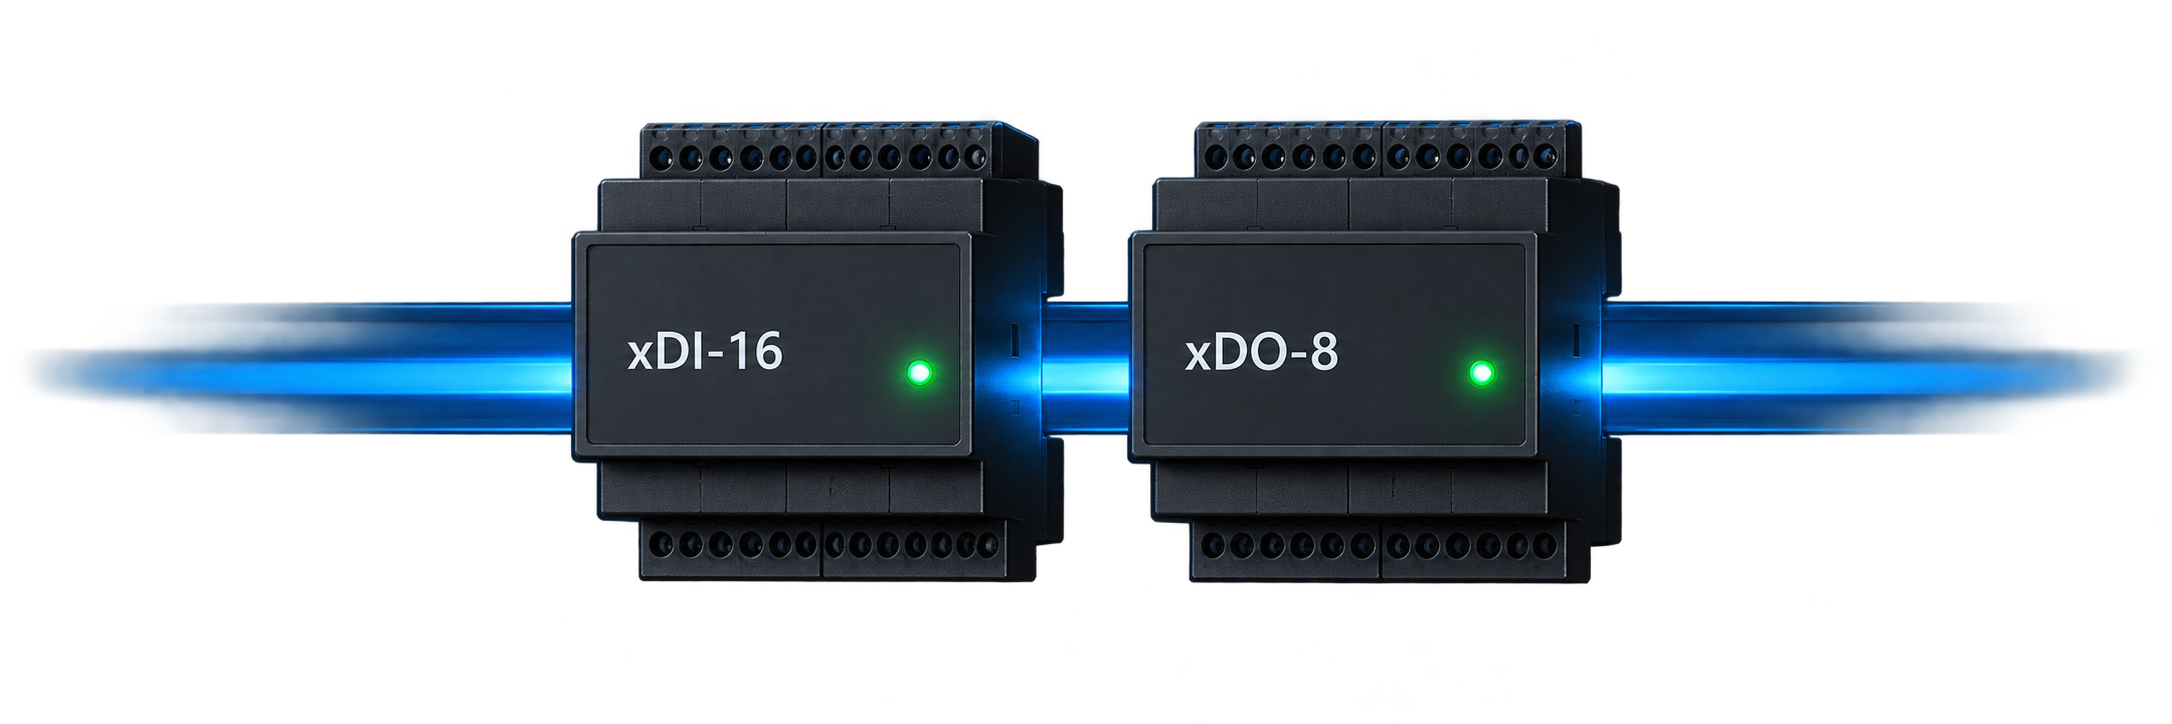
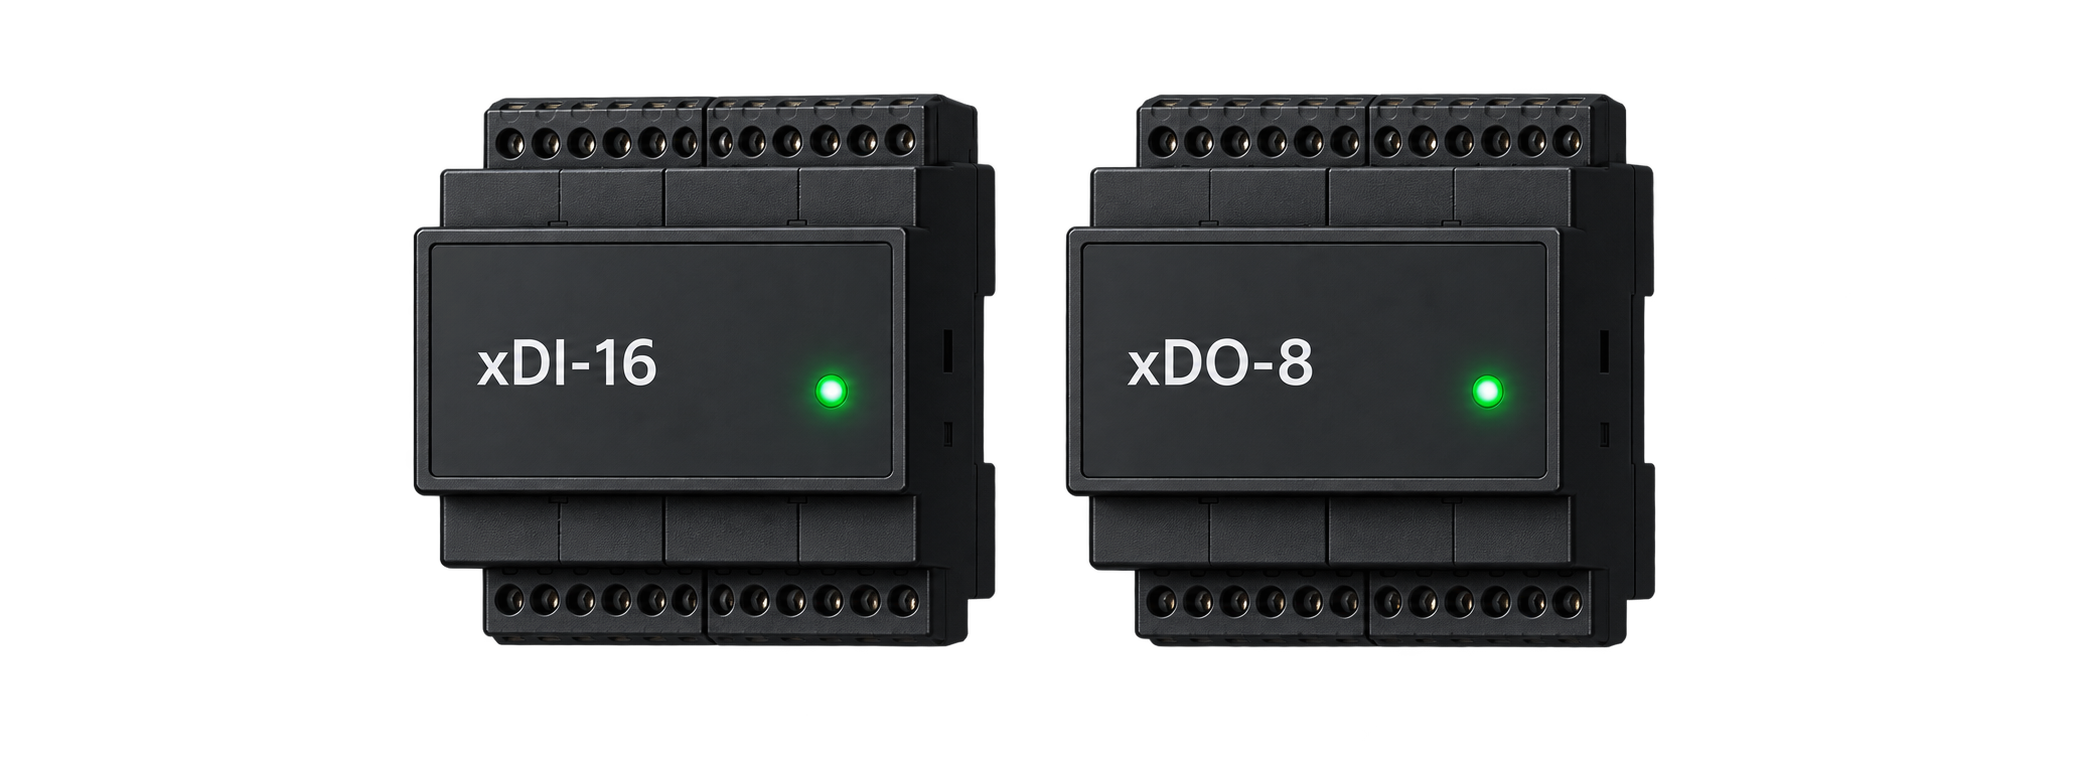
0.5.238: fix X-BUS power refresh shutdown lifecycle

Changed region(s): [[0.0, 0.1215, 0.9856, 0.8812]]

diff --git a/intellegyhub/app/main.py b/intellegyhub/app/main.py
@@ -256,7 +256,7 @@ def create_app(options_path: Path | None = None, runtime: AppRuntime | None = No
         if app.state.runtime is None:
             config = load_config(app.state.options_path)
             LOGGER.info(
-        "Starting v0.5.237 chip=%s led=%s active_low=%s fn1_gpio=27 fn2_gpio=%s active_low=%s bias=%s debounce_ms=%s startup_buzzer=%s shutdown_buzzer=%s buzzer_frequency=%s buzzer_duration_ms=%s shutdown_buzzer_volume_percent=80 carrier_monitoring_poll_interval_seconds=%s ste_heartbeat_on_seconds=%s ste_heartbeat_off_seconds=%s websocket_connection_grace_seconds=%s onewire_bus1_poll_interval_seconds=%s onewire_bus2_poll_interval_seconds=%s power_button_shutdown_enabled=%s power_button_shutdown_hold_seconds=%s mock=%s port=8098",
+        "Starting v0.5.238 chip=%s led=%s active_low=%s fn1_gpio=27 fn2_gpio=%s active_low=%s bias=%s debounce_ms=%s startup_buzzer=%s shutdown_buzzer=%s buzzer_frequency=%s buzzer_duration_ms=%s shutdown_buzzer_volume_percent=80 carrier_monitoring_poll_interval_seconds=%s ste_heartbeat_on_seconds=%s ste_heartbeat_off_seconds=%s websocket_connection_grace_seconds=%s onewire_bus1_poll_interval_seconds=%s onewire_bus2_poll_interval_seconds=%s power_button_shutdown_enabled=%s power_button_shutdown_hold_seconds=%s mock=%s port=8098",
                 config.chip_path,
                 config.led_gpio,
                 config.led_active_low,
@@ -314,7 +314,7 @@ def create_app(options_path: Path | None = None, runtime: AppRuntime | None = No
                 await app.state.rs485.stop()
             await app.state.runtime.stop()
 
-    app = FastAPI(title="IntellegyHUB", version="0.5.237", lifespan=lifespan)
+    app = FastAPI(title="IntellegyHUB", version="0.5.238", lifespan=lifespan)
     app.state.runtime = runtime
     app.state.options_path = options_path
     app.state.rtc = MockRtc() if is_mock_enabled() else HostRtc()
@@ -802,7 +802,7 @@ def create_app(options_path: Path | None = None, runtime: AppRuntime | None = No
     .xbus-status-line .notice { display: inline-flex; align-items: center; gap: 10px; padding-left: 18px; border-left: 1px solid var(--ha-card-border); }
     .xbus-status-line .notice svg { width: 22px; height: 22px; flex: 0 0 22px; fill: currentColor; }
     .xbus-visual { position: absolute !important; z-index: 0 !important; top: -38px; right: 150px; width: min(58%, 820px); height: 270px; display: flex; align-items: center; justify-content: center; pointer-events: none; transform: translateX(100px); }
-    .xbus-visual img { display: block; width: 100%; height: 100%; object-fit: contain; object-position: center; opacity: .96; }
+    .xbus-visual img { display: block; width: 85%; height: 85%; object-fit: contain; object-position: center; opacity: .96; }
     .xbus-toolbar { display: grid; grid-template-columns: minmax(330px, 1.4fr) minmax(320px, 1fr) minmax(390px, 2.3fr); gap: 24px; align-items: center; margin-top: 12px; border: 1px solid var(--ha-card-border); border-radius: 8px; padding: 12px 16px; background: var(--ha-surface); }
     .xbus-toolbar > * { min-width: 0; }
     .xbus-toolbar .bus-power-control, .xbus-toolbar .bus-note, .xbus-scan-panel { height: 64px; min-height: 64px; box-sizing: border-box; border: 0; border-radius: 0; background: transparent; }

diff --git a/intellegyhub/app/extensions.py b/intellegyhub/app/extensions.py
@@ -676,9 +676,7 @@ class ExtensionManager:
 
     async def stop(self) -> None:
         self._stopped.set()
-        if self._power_refresh_task is not None:
-            await self._power_refresh_task
-            self._power_refresh_task = None
+        await self._cancel_power_refresh()
         await self.hardware.stop_xdi16_interrupt()
         if self._xdi16_task:
             self._xdi16_task.cancel()
@@ -695,8 +693,24 @@ class ExtensionManager:
 
     async def wait_for_power_refresh(self) -> None:
         if self._power_refresh_task is not None:
-            await self._power_refresh_task
-            self._power_refresh_task = None
+            task = self._power_refresh_task
+            try:
+                await task
+            finally:
+                if self._power_refresh_task is task:
+                    self._power_refresh_task = None
+
+    async def _cancel_power_refresh(self) -> None:
+        task = self._power_refresh_task
+        if task is None:
+            return
+        self._power_refresh_task = None
+        if not task.done():
+            task.cancel()
+        try:
+            await task
+        except asyncio.CancelledError:
+            pass
 
     def _persist_modules_nowait(self) -> None:
         self._pending_modules_snapshot = copy.deepcopy(list(self.modules.values()))
@@ -730,11 +744,7 @@ class ExtensionManager:
             if on:
                 await self._power_refresh_task
             else:
-                self._power_refresh_task.cancel()
-                try:
-                    await self._power_refresh_task
-                except asyncio.CancelledError:
-                    pass
+                await self._cancel_power_refresh()
         self._power_refresh_task = None
         async with self._lock:
             if self._module_persistence_task is not None and not self._module_persistence_task.done():

diff --git a/intellegyhub/app/carrier.py b/intellegyhub/app/carrier.py
@@ -13,7 +13,7 @@ from pathlib import Path
 from typing import Any, Callable
 
 I2C_SLAVE = 0x0703
-APP_VERSION = "0.5.237"
+APP_VERSION = "0.5.238"
 IDENTITY_EEPROM_ADDR = 0x50
 IDENTITY_EEPROM_OFFSET = 0x0000
 IDENTITY_REGION_SIZE = 1024

diff --git a/intellegyhub/CHANGELOG.md b/intellegyhub/CHANGELOG.md
@@ -1,5 +1,11 @@
 # Changelog
 
+## 0.5.238
+
+- Cancel pending X-BUS module refreshes during shutdown and power-off.
+- Add regression coverage for stopping while an X-BUS refresh is active.
+- Reduce the X-BUS module artwork by 15% while keeping it centered.
+
 ## 0.5.237
 
 - Make X-BUS power switching responsive with optimistic UI updates and background module refresh.
